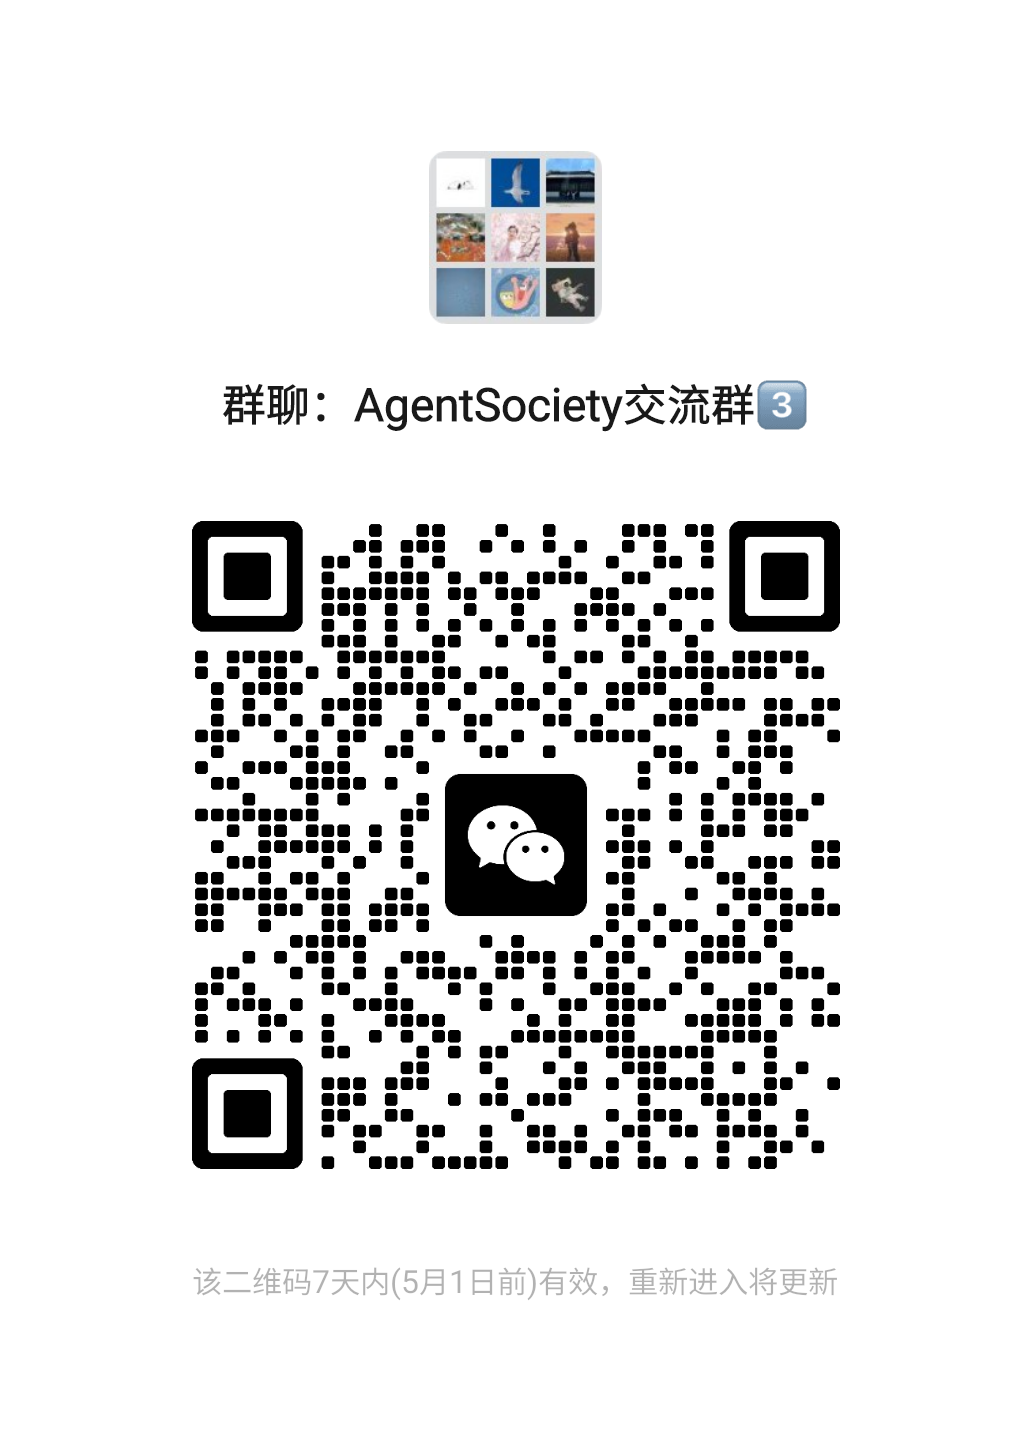
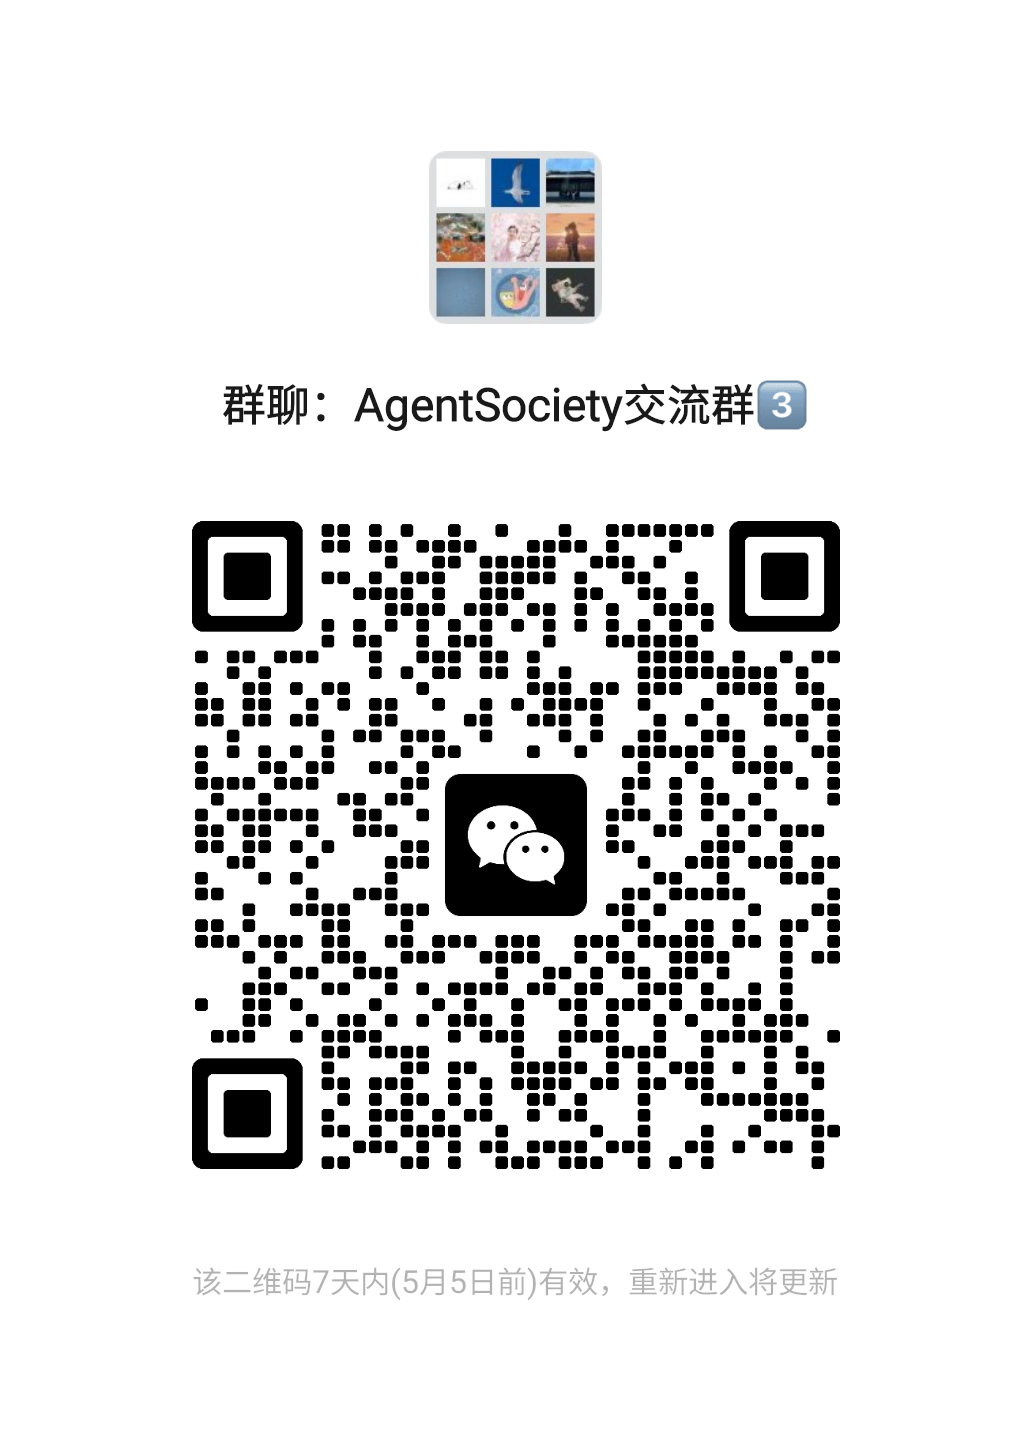
modify WeChat QR code

Changed region(s): [[0.1862, 0.3404, 0.838, 0.8047], [0.4345, 0.8666, 0.4656, 0.8975]]

diff --git a/CHANGELOG.md b/CHANGELOG.md
@@ -1,5 +1,20 @@
 # Changelog
 
+## [1.3.7] - 2025-04-28
+
+### Added
+- N/A
+
+### Changed
+- Update wechat group QR code.
+
+### Deprecated
+- N/A
+
+### Fixed
+- N/A
+
+
 ## [1.3.6] - 2025-04-17
 
 ### Added
